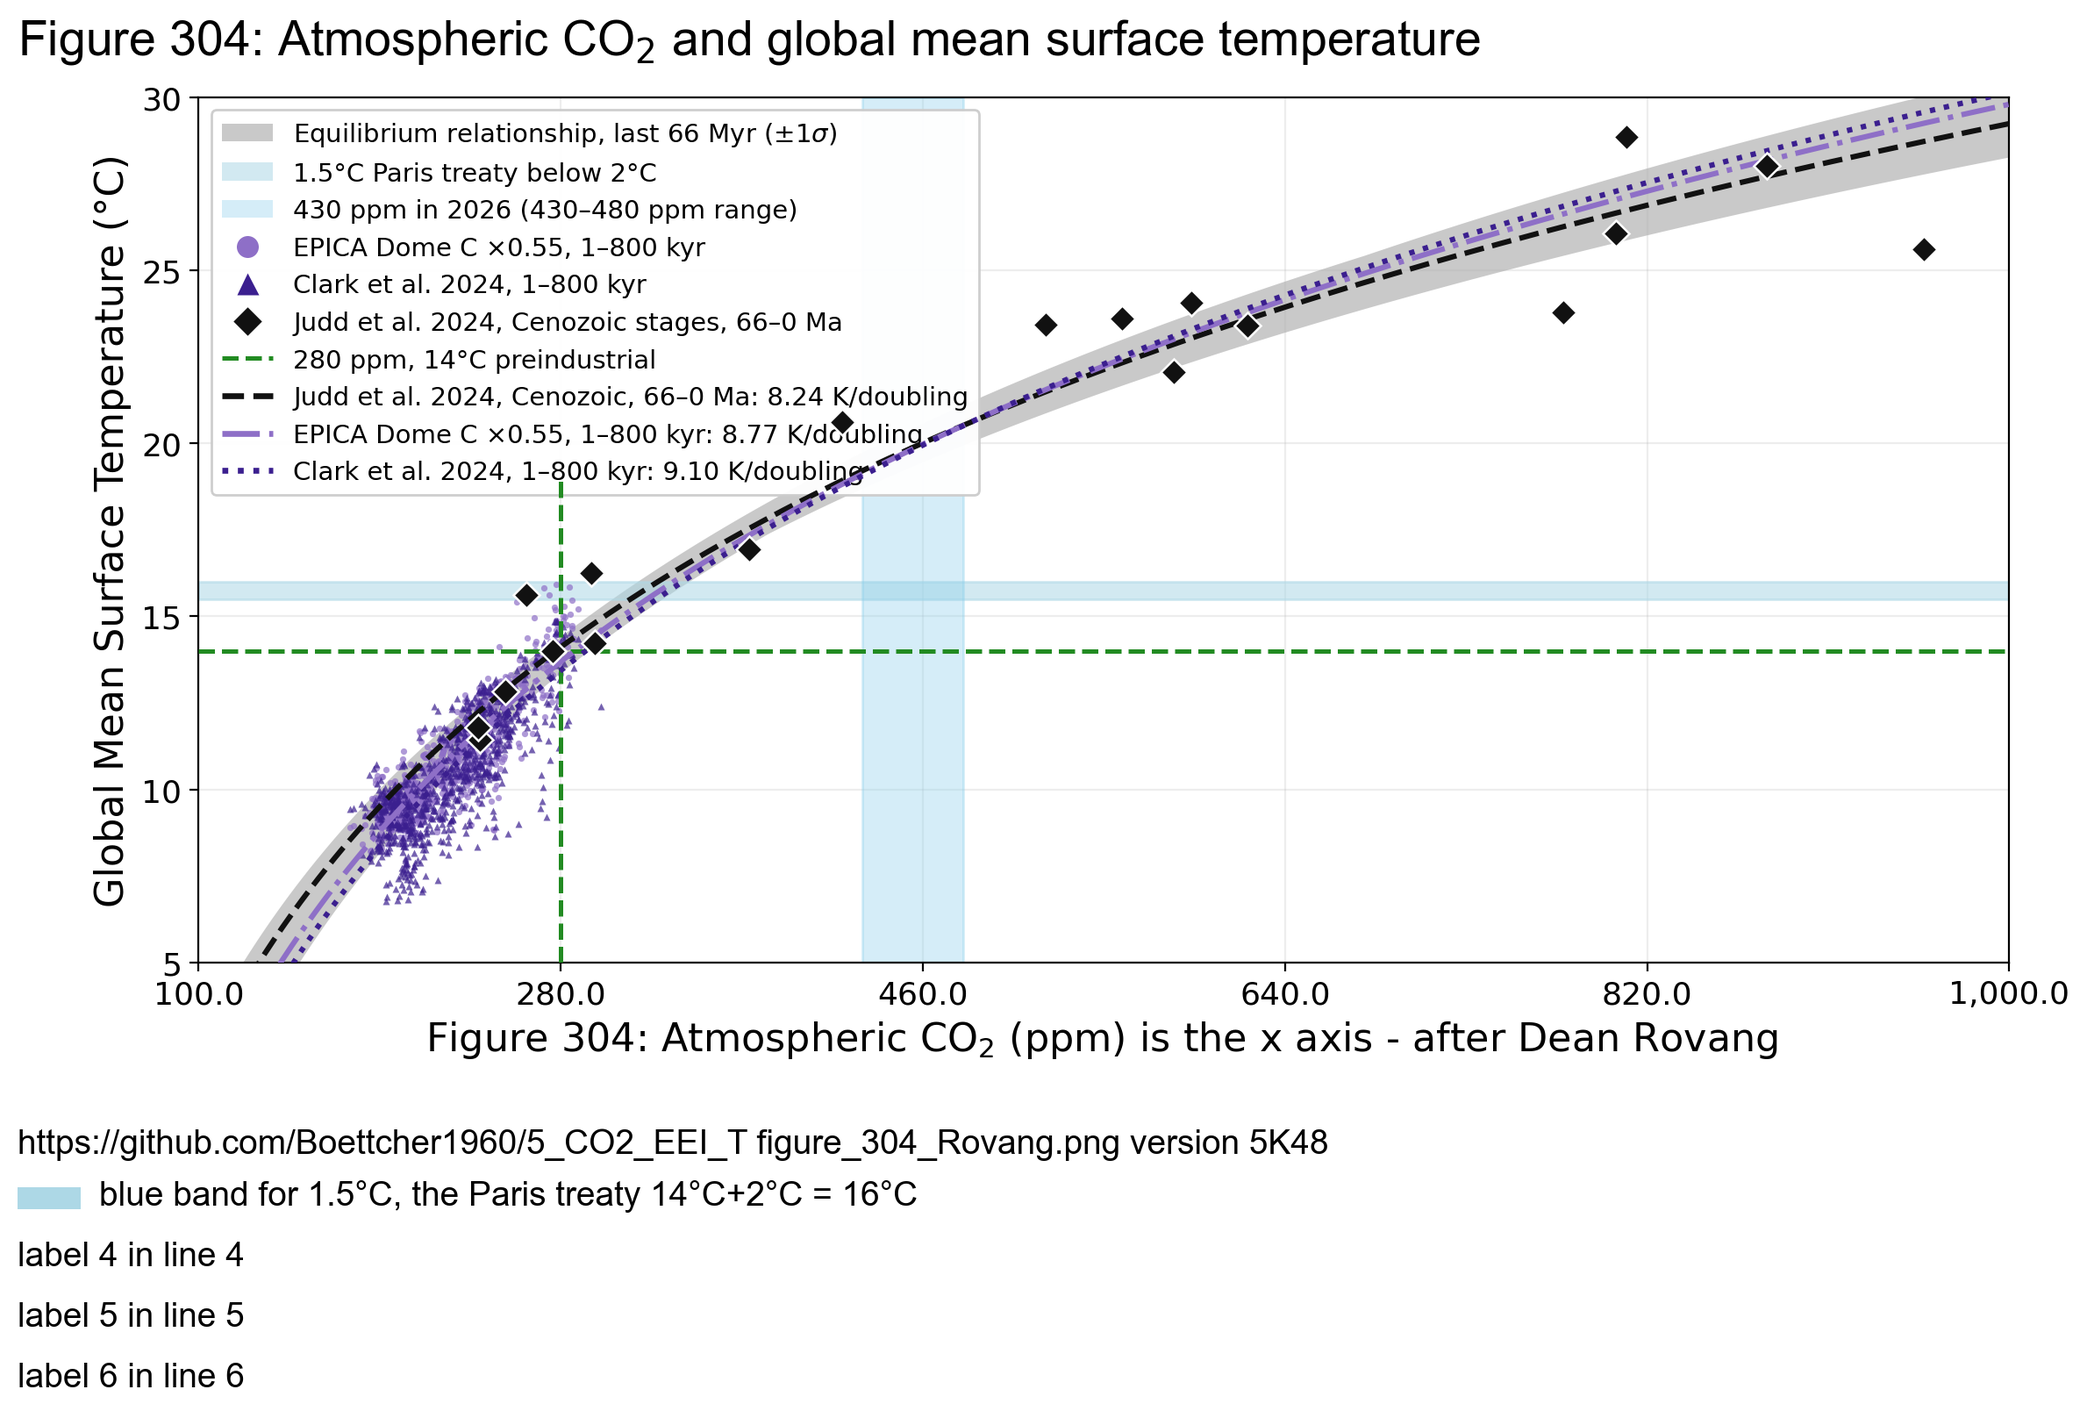
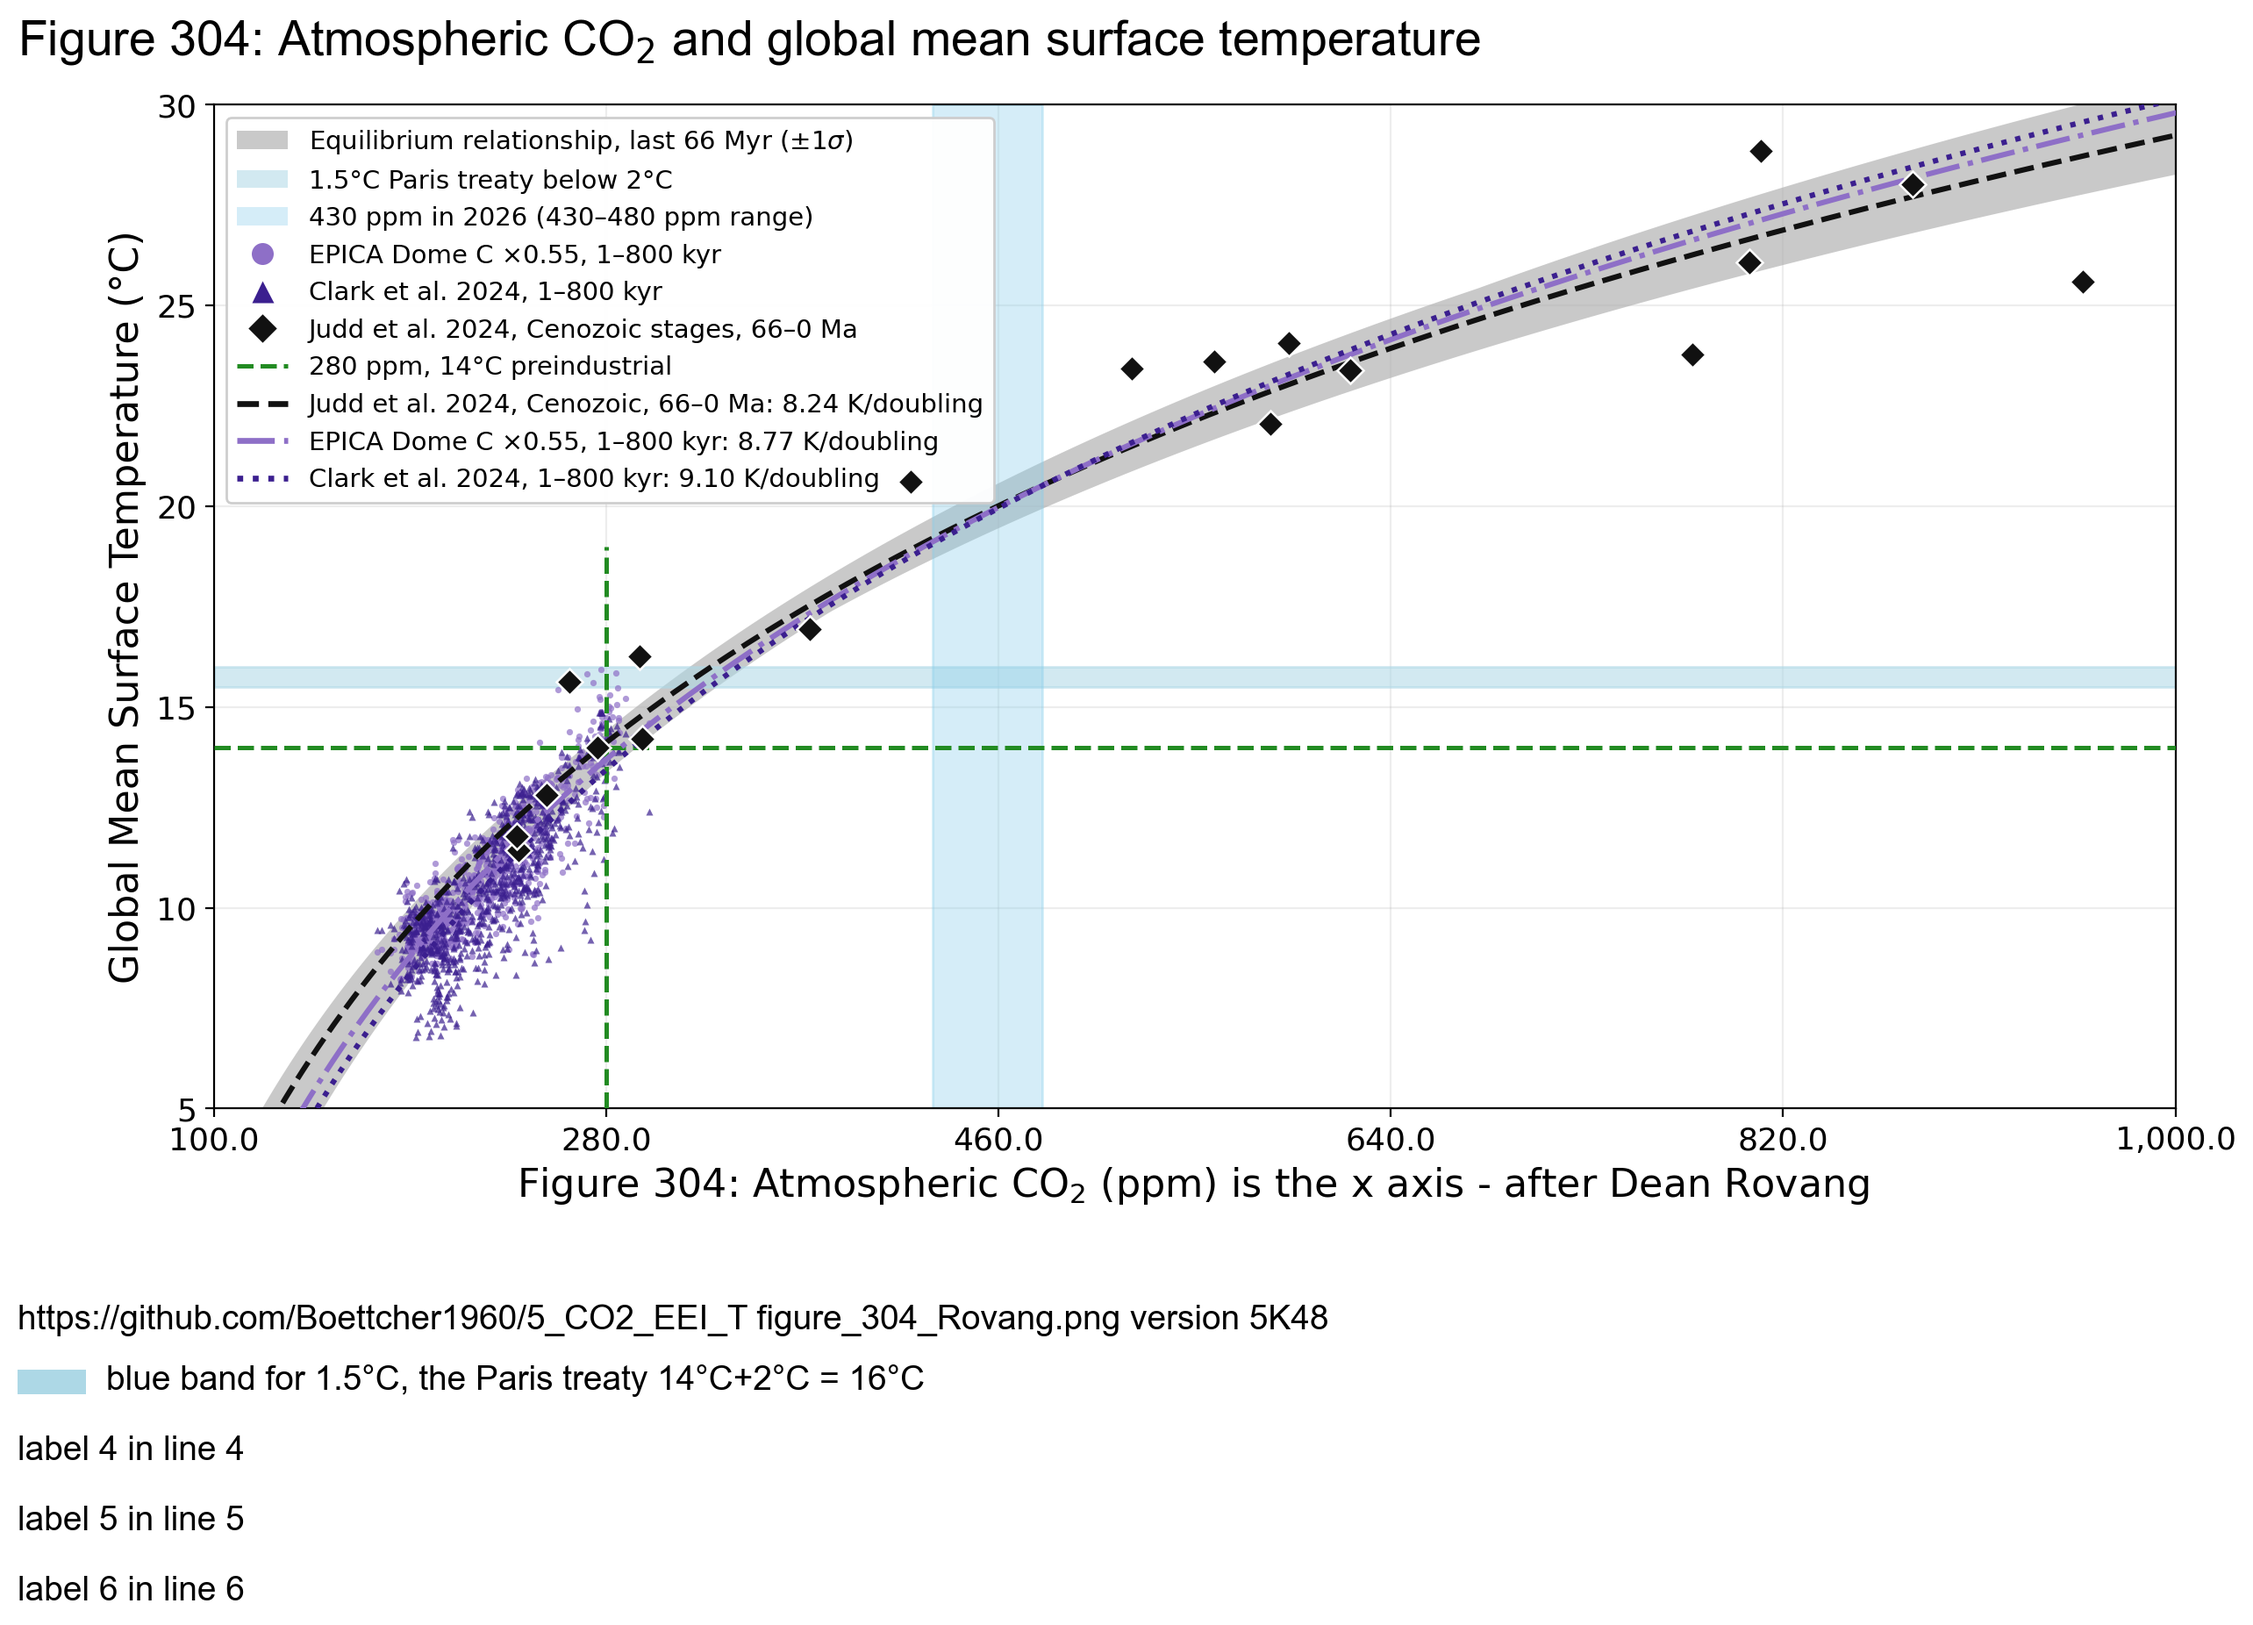
5K48

diff --git a/Rovang/Rovang_figure_303.py b/Rovang/Rovang_figure_303.py
@@ -60,7 +60,10 @@ def _create_figure(linear_x=False):
          B.se_clk, B.sb_clk, CLK, ":"),
     ]
 
-    fig, ax = plt.subplots(figsize=(12, 8.5))
+    # 303.60 create the figure and axes with a specific size
+    # fig, ax = plt.subplots(figsize=(15, 10.625))
+    # figure1 is , ax = plt.subplots(figsize=(13, 7))
+    fig, ax = plt.subplots(figsize=(13, 11))
 
     p = np.linspace(XLO * 0.9, XHI * 1.1, 800)
     x = Lg(p)
@@ -174,21 +177,29 @@ def _create_figure(linear_x=False):
     ax.text(-0.1, t3y2, text_below3, color="black", fontname="Arial", fontsize=14,
             transform=ax.transAxes)
 
+
     t3y3 = -0.28    # 303.124 print line 3 t3y3 = -0.28
-    label3="blue band for 1.5\u00b0C, the Paris treaty 14\u00b0C+2\u00b0C = 16\u00b0C"
-    ax.add_patch(
+    # 303.125 in legend, line 3, add a blue band
+    ax.add_patch(   
         Rectangle(
             (-0.1, t3y3 - 0.005), 0.035, 0.025,
             transform=ax.transAxes, facecolor=paris_band_color,
             edgecolor="none", clip_on=False,
         )
     )
-    # 303.125 print line 3 below the plot
+    # 303.127 print line 3 below the plot
+    label3="blue band for 1.5\u00b0C, the Paris treaty 14\u00b0C+2\u00b0C = 16\u00b0C"
+    # 303.128 print the text for line 3 below the plot
     ax.text(-0.055, t3y3, label3, color="black", fontname="Arial", fontsize=14,
             transform=ax.transAxes)
-
-
-    fig.subplots_adjust(left=0.12, right=0.98, top=0.88, bottom=0.30)
+    
+    # 303.131  fig.subplots_adjust(left=0.12, right=0.98, top=0.88, bottom=0.30)
+    # sets the plot area’s margins within the figure. The values are fractions of the figure dimensions:
+    # left=0.12: plot starts 12% from the left.
+    # right=0.98: plot ends 2% from the right.
+    # top=0.88: plot ends 12% below the top.
+    # bottom=0.30: plot starts 30% above the bottom, leaving room below for captions.
+    fig.subplots_adjust(left=0.12, right=0.98, top=0.92, bottom=0.40)
     
     t3y4 = -0.35    # 303.124 print line 6 
     label4="label 4 in line 4"
